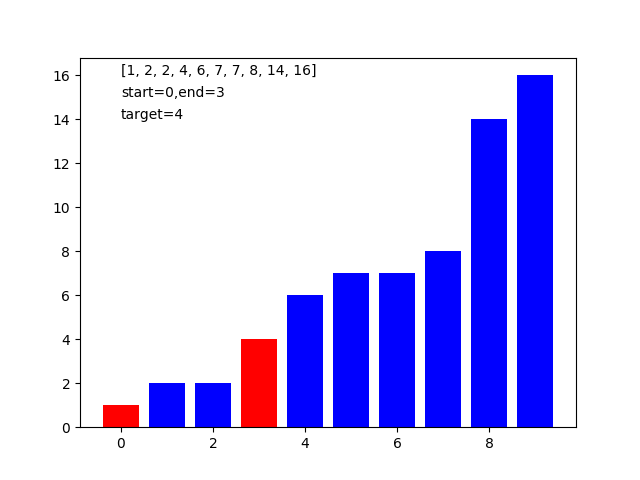
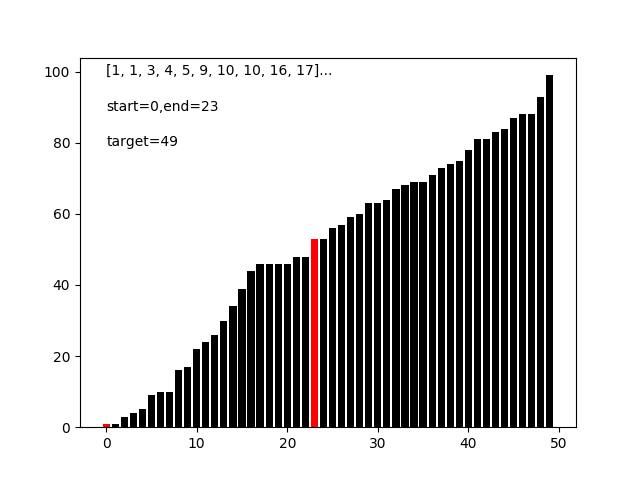
稍微修改了下参数保证整个生成的gif的合理性

diff --git a/main.py b/main.py
@@ -5,13 +5,13 @@ import os
 
 def test_binary():
     for i in range(1):
-        l = list_tools.generate_list(10 , 0, 20, True)
+        l = list_tools.generate_list(50 , 1, 100, True)
         print(l)
-        value = random.randint(0, 20)
+        value = random.randint(0, 100)
         print(value, binary_search.binary_search(l, 0, len(l) - 1, value, visualization.search_visualization_hook))
 
-    path = '/home/altas/altas/algorithm/algorithm-forth/img/binary_search'
-    visualization.generate_gif_dir(path, os.path.join(path, 'bin.gif'))
+    path = '/home/altas/altas/algorithm/algorithm-forth/img/'
+    visualization.generate_gif_dir(os.path.join(path, 'binary_search'), os.path.join(path, 'bin_search.gif'), fps=2)
 
 def main():
     test_binary()

diff --git a/tools/visualization.py b/tools/visualization.py
@@ -44,11 +44,11 @@ def search_visualization_hook(data, start, mid, end, target, count):
         elif end == i:
             color_list.append('r')
         else:
-            color_list.append('b')
+            color_list.append('black')
 
-    plt.text(0,max(data),str(data))
-    plt.text(0,max(data) - 1,"start=%d,end=%d" % (start, end))
-    plt.text(0,max(data) - 2,"target=%d" % target)
+    plt.text(0,max(data),str(data[:10]) + '...')
+    plt.text(0,max(data) - 10,"start=%d,end=%d" % (start, end))
+    plt.text(0,max(data) - 20,"target=%d" % target)
 
     plt.bar(range(len(data)), data, color=color_list)
 
